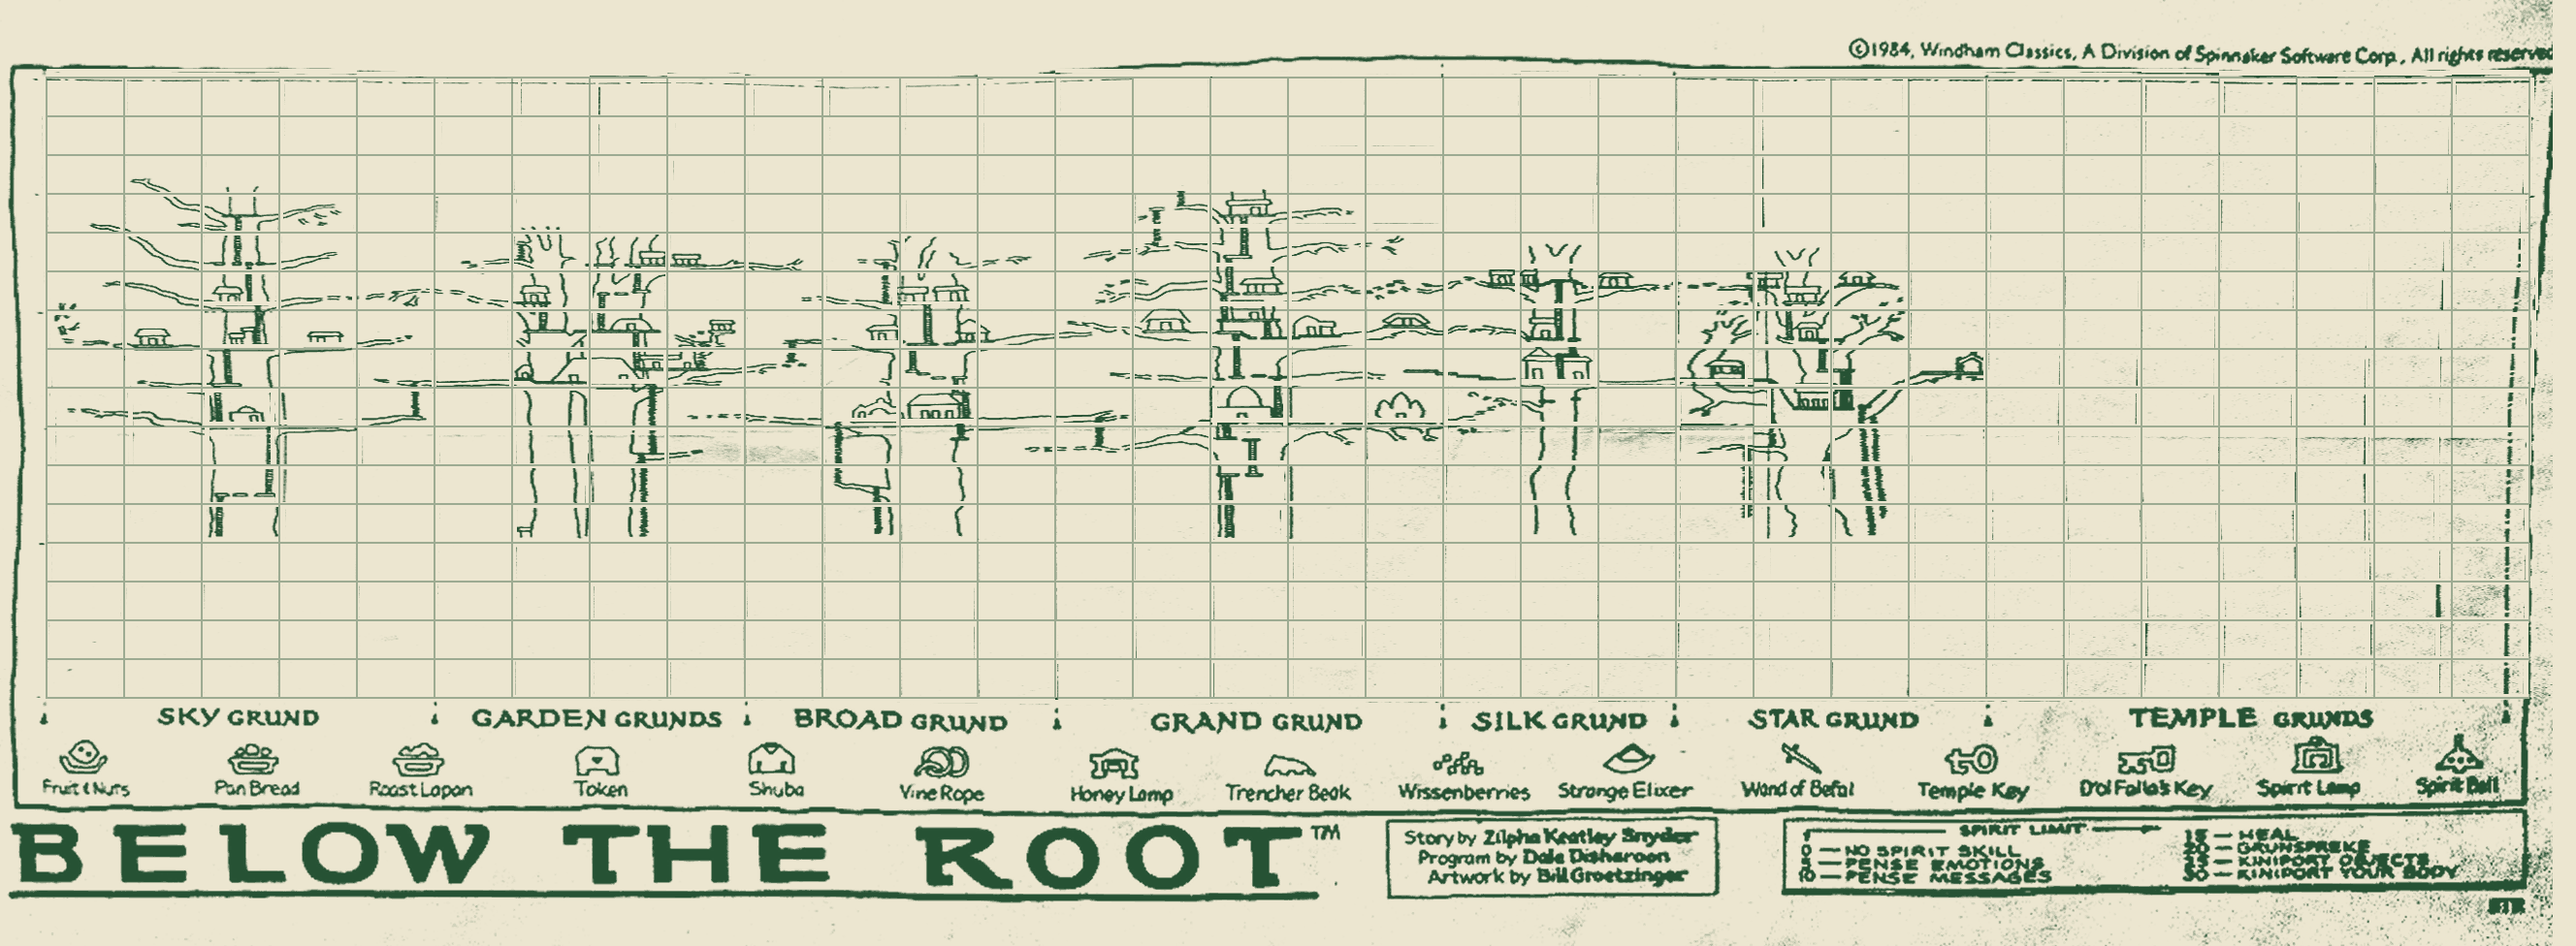
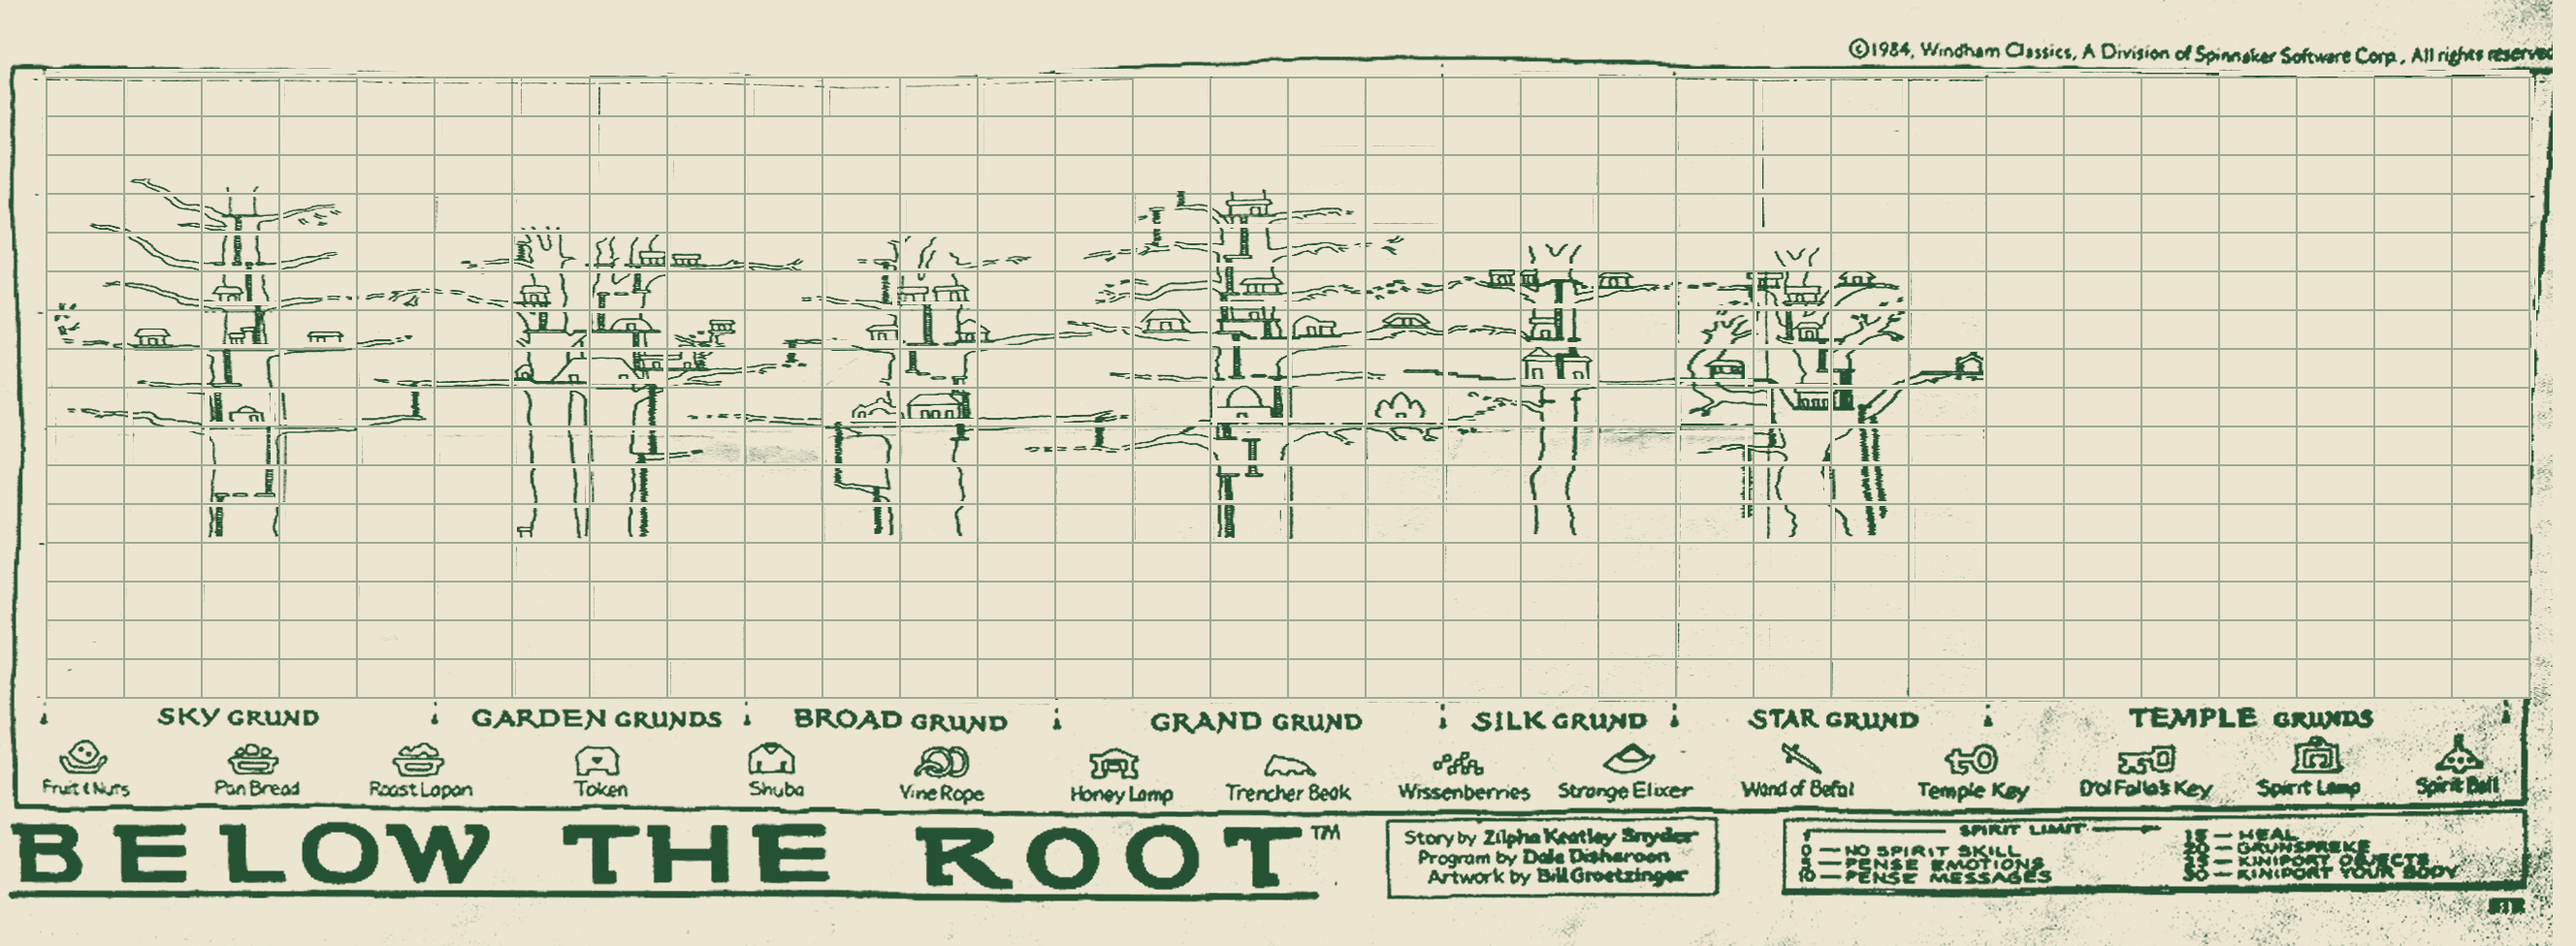
Clean poster grid remnants and crease blemishes
Mask the empty right-hand columns, blank ground below Broad/Grand Grund, and the crease between legend items. Restore the existing grid with flat palette colours after quantization so the surrounding artwork and palette stay unchanged. Keep the cleanup in the poster generator for reproducible regeneration.

Changed region(s): [[0.9375, 0.584, 1.0, 0.7377], [0.9062, 0.4611, 1.0, 0.5225]]

diff --git a/tools/poster_image.py b/tools/poster_image.py
@@ -9,7 +9,7 @@ import argparse
 import os
 
 import numpy as np
-from PIL import Image, ImageFilter
+from PIL import Image, ImageDraw, ImageFilter
 from PIL.Image import Resampling, Transform
 
 from common import ROOT
@@ -122,6 +122,36 @@ def redraw_grid(ink, out_x, out_y):
     return ink
 
 
+def remove_poster_blemishes(image):
+    mask = Image.new('1', image.size)
+    draw = ImageDraw.Draw(mask)
+    left, top = MARGIN['left'], MARGIN['top']
+    right, bottom = left + COLUMNS * CELL_W, top + ROWS * CELL_H
+    empty_right_columns = (left + 25 * CELL_W, top, right, bottom)
+    empty_ground_below_grunds = (left + 9 * CELL_W, top + 12 * CELL_H,
+                                left + 18 * CELL_W, bottom)
+    crease_between_legend_items = [(1180, 760), (1258, 760), (1258, 804), (1248, 804),
+                                  (1248, 830), (1210, 830), (1210, 802), (1180, 802)]
+    draw.rectangle(empty_right_columns, fill=1)
+    draw.rectangle(empty_ground_below_grunds, fill=1)
+    draw.polygon(crease_between_legend_items, fill=1)
+    pixels = np.asarray(image).copy()
+    palette = np.array(image.getpalette()).reshape(-1, 3)
+    paper_index = np.argmin(((palette - PAPER) ** 2).sum(1))
+    grid_rgb = np.round(PAPER * (1 - GRID_INK) + INK * GRID_INK)
+    grid_index = np.argmin(((palette - grid_rgb) ** 2).sum(1))
+    selected = np.asarray(mask)
+    pixels[selected] = paper_index
+    y, x = np.indices(pixels.shape)
+    grid = ((x >= left - 1) & (x <= right) &
+            (y >= top - 1) & (y <= bottom) &
+            (((x - left + 1) % CELL_W < 2) | ((y - top + 1) % CELL_H < 2)))
+    pixels[selected & grid] = grid_index
+    image = image.copy()
+    image.putdata(pixels.ravel())
+    return image
+
+
 def main():
     parser = argparse.ArgumentParser(description=__doc__)
     parser.add_argument('--image', default=os.path.join(ROOT, 'iso/map.jpg'))
@@ -159,7 +189,8 @@ def main():
     size = (out_x[-1], out_y[-1])
     ink = redraw_grid(flat.transform(size, Transform.MESH, mesh, Resampling.BICUBIC), out_x, out_y)
     rgb = PAPER * (1 - ink[..., None]) + INK * ink[..., None]
-    Image.fromarray(rgb.round().astype(np.uint8)).quantize(16, dither=Image.Dither.NONE).save(args.output, optimize=True)
+    image = Image.fromarray(rgb.round().astype(np.uint8)).quantize(16, dither=Image.Dither.NONE)
+    remove_poster_blemishes(image).save(args.output, optimize=True)
     print(f'{args.output}: {size[0]}x{size[1]}, grid at {MARGIN}')
 
 
